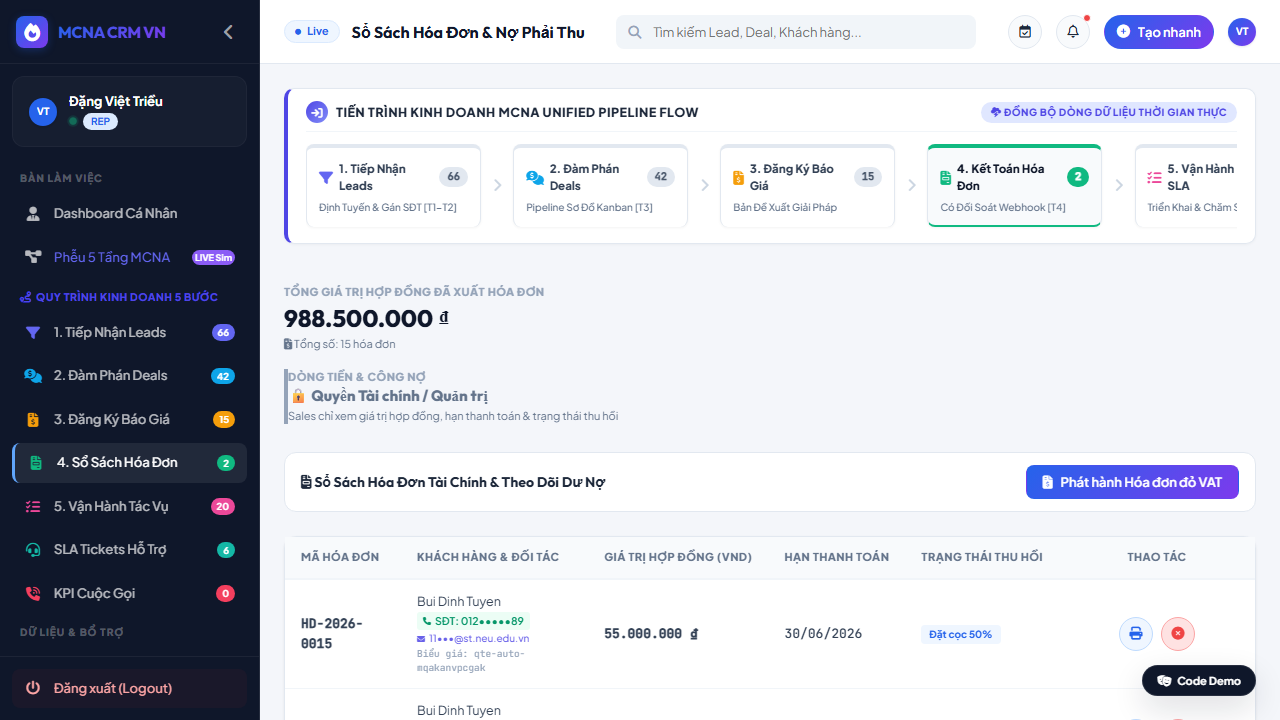
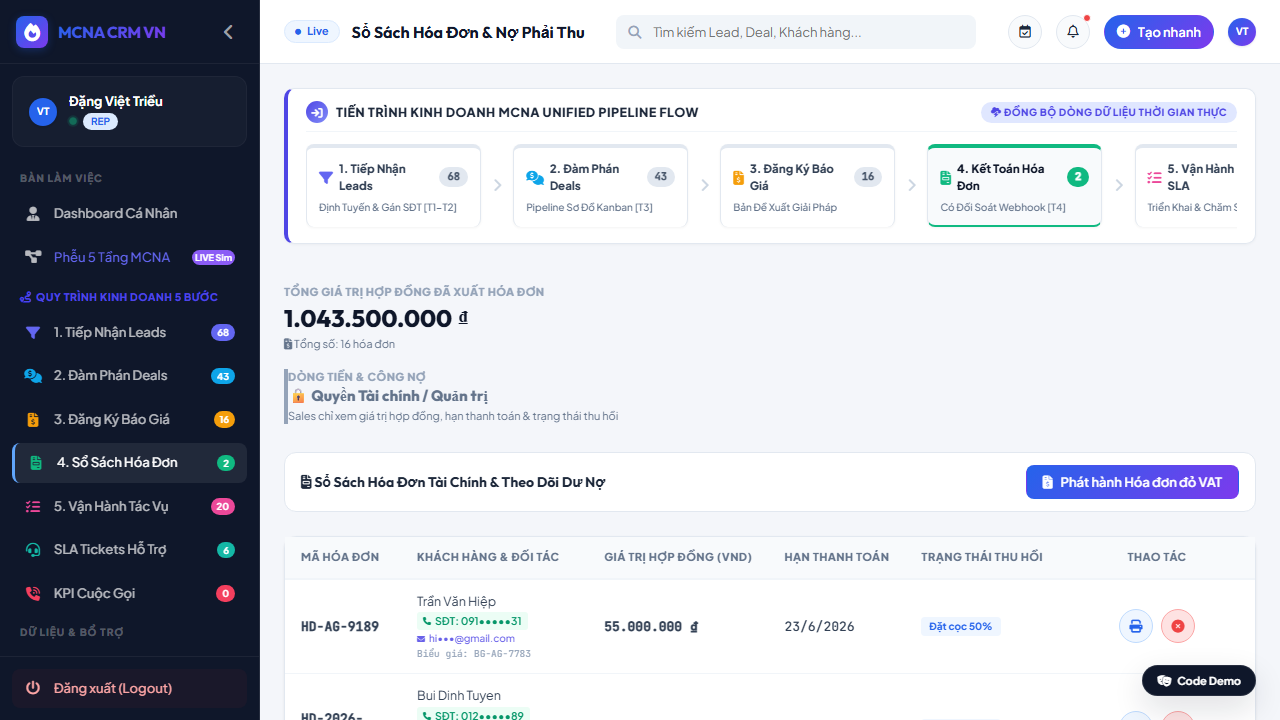
Add "to be updated" lead workflow: marketer aggregates, sales manager distributes
- New leads can be created without a rep; marketers default to unassigned.
  Unassigned leads get status to_be_updated and skip the assignment email.
- Leads table shows a "To be updated" tab, an amber owner badge, and a
  "Chia" (distribute) button visible only to manager/superadmin.
- openAssignLeadModal/confirmAssignLead let the sales manager pick a rep;
  on assign the lead owner + mirrored contact owner are set, status to new,
  and the rep gets a notification + email (address from their profile).

Privacy (phone/email) confirmed already free of random hiding.
Verified on production: e2e-tbu.mjs all pass + e2e-rbac.mjs 11/11 (no regression).

diff --git a/src/crm.js b/src/crm.js
@@ -296,7 +296,7 @@ function renderPageContent(pageId) {
       data = data.filter(l => l.name.toLowerCase().includes(q) || l.company.toLowerCase().includes(q));
     }
     
-    mount.innerHTML = drawLeadsPage(data, ACTIVE_TAB_STATE, FILTER_STATE);
+    mount.innerHTML = drawLeadsPage(data, ACTIVE_TAB_STATE, FILTER_STATE, SESSION?.role);
     setupLeadsEventHandlers();
   } 
   else if (pageId === 'deals' || pageId === 'pipeline') {
@@ -781,10 +781,11 @@ function openNewLeadModalForm() {
       </div>
       <div class="fr2">
         <div class="fg">
-          <label>Nhân viên Sales phụ trách *</label>
+          <label>Phân Sales phụ trách</label>
           <select id="m-lead-owner">
-            ${USERS_DB.filter(u => ['sales', 'manager', 'superadmin'].includes(u.role)).map(u => `
-              <option value="${u.id}" ${u.id === SESSION.id ? 'selected' : ''}>${esc(u.name)} (${esc(u.role.toUpperCase())})</option>
+            <option value="" ${(SESSION.role === 'manager' || SESSION.role === 'superadmin') ? 'selected' : ''}>⏳ Chưa phân — To be updated (Sales Manager chia sau)</option>
+            ${USERS_DB.filter(u => u.role === 'sales' && u.status === 'active').map(u => `
+              <option value="${u.id}" ${u.id === SESSION.id ? 'selected' : ''}>${esc(u.name)} (SALES)</option>
             `).join('')}
           </select>
         </div>
@@ -845,7 +846,9 @@ function openNewLeadModalForm() {
       return;
     }
 
-    const assignedRepId = ownerId || SESSION.id;
+    // Marketer aggregates leads; if no rep is chosen the lead stays unassigned
+    // ("to be updated") for the Sales Manager to filter and distribute later.
+    const isUnassigned = !ownerId;
 
     const newLeadObj = {
       id: uid('led'),
@@ -855,36 +858,41 @@ function openNewLeadModalForm() {
       phone,
       email,
       source: document.getElementById('m-lead-source').value,
-      status: 'new',
+      status: isUnassigned ? 'to_be_updated' : 'new',
       value: val,
-      ownerId: assignedRepId,
+      ownerId: ownerId || '',
+      createdBy: SESSION.id,
       createdAt: new Date().toLocaleDateString('vi-VN'),
-      deadline: '30/05/2026',
+      deadline: '30/06/2026',
       priority: document.getElementById('m-lead-priority').value,
       notes: notesInput || (type === 'b2c' ? 'Khởi tạo thủ công nhanh B2C' : 'Khởi tạo thủ công nhanh B2B')
     };
 
     LEADS_DB.unshift(newLeadObj);
 
-    // Pipeline T1->T2 (BA doc): a new lead must also be recorded in the
-    // B2B/B2C customer database, and the assigned rep gets a real email.
+    // Pipeline T1: a new lead is always recorded in the B2B/B2C customer DB.
     ensureCustomerFromLead(newLeadObj);
-    dispatchAssignmentEmail(newLeadObj);
-
-    // TRIGGER IMMEDIATE NOTIFICATION TO THE DELEGATED SALESPERSON
-    if (assignedRepId) {
-      NOTIFICATIONS_DB.unshift({
-        id: `notif-sales-${Date.now()}`,
-        userId: assignedRepId,
-        unread: true,
-        title: '⚡ [Chỉ Định Thủ Công] BẠN ĐƯỢC GIAO LEAD MỚI!',
-        content: `Marketer/Trưởng bộ phận vừa tạo & gán Lead mới "${name}" (SĐT: ${phone}) trực tiếp cho bạn chăm sóc. Vui lòng tác nghiệp ngay!`,
-        time: 'Vừa xong',
-        user: SESSION.name || 'Hệ thống tự động'
-      });
-    }
 
     closeActiveModal();
+
+    if (isUnassigned) {
+      writeAuditLog(`Marketer tổng hợp Lead "${name}" - để TRẠNG THÁI "To be updated" chờ Sales Manager chia`, 'Leads Collection');
+      toast('📥 Đã tổng hợp Lead mới ở trạng thái "To be updated". Sales Manager sẽ lọc & chia cho Sales.', 'info');
+      if (CUR_PAGE === 'leads') renderPageContent('leads');
+      return;
+    }
+
+    // Assigned directly: notify + email the chosen rep, then run the funnel.
+    dispatchAssignmentEmail(newLeadObj);
+    NOTIFICATIONS_DB.unshift({
+      id: `notif-sales-${Date.now()}`,
+      userId: ownerId,
+      unread: true,
+      title: '⚡ [Chỉ Định Thủ Công] BẠN ĐƯỢC GIAO LEAD MỚI!',
+      content: `Marketer/Trưởng bộ phận vừa tạo & gán Lead mới "${name}" (SĐT: ${phone}) trực tiếp cho bạn chăm sóc. Vui lòng tác nghiệp ngay!`,
+      time: 'Vừa xong',
+      user: SESSION.name || 'Hệ thống tự động'
+    });
 
     if (val > 0) {
       // Trigger the majestic semi-agentic automatic flow!
@@ -5016,6 +5024,71 @@ export async function sendMarketerEmail() {
   if (CUR_PAGE === 'kpi-calls') renderPageContent('kpi-calls');
 }
 
+// ---- Sales Manager: filter & distribute unassigned ("to be updated") leads ----
+export function openAssignLeadModal(leadId) {
+  if (!SESSION || !(SESSION.role === 'manager' || SESSION.role === 'superadmin')) {
+    toast('🔒 Chỉ Sales Manager / Quản trị mới được lọc và chia Lead!', 'error');
+    return;
+  }
+  const lead = LEADS_DB.find(l => l.id === leadId);
+  if (!lead) return;
+
+  const reps = USERS_DB.filter(u => u.role === 'sales' && u.status === 'active');
+  const bodyHtml = `
+    <div class="auth-body">
+      <div class="panel" style="background:#fffbeb; border:1.5px dashed #f59e0b; padding:12px; border-radius:8px; margin-bottom:12px;">
+        <p style="font-size:12px; color:#92400e; margin:0; line-height:1.6;">
+          <i class="fa-solid fa-people-arrows"></i> Lead <strong>${esc(lead.name)}</strong> đang ở trạng thái
+          <strong>"To be updated"</strong>. Chọn Sales để chia. Khi chia xong, hệ thống tự gửi email + thông báo cho Sales đó.
+        </p>
+      </div>
+      <div class="fg" style="margin:0;">
+        <label>Phân cho Sales phụ trách *</label>
+        <select id="assign-lead-rep">
+          ${reps.map(r => `<option value="${r.id}">${esc(r.name)} — ${esc(r.dept || 'Kinh doanh')}</option>`).join('')}
+        </select>
+      </div>
+    </div>
+  `;
+  const footerHtml = `
+    <button class="btn bl" onclick="window.crmApp.closeActiveModal()">Thoát</button>
+    <button class="btn pr" onclick="window.crmApp.confirmAssignLead('${lead.id}')"><i class="fa-solid fa-share-from-square"></i> Chia Lead cho Sales</button>
+  `;
+  openModalElement('CHIA LEAD CHO SALES (Sales Manager)', bodyHtml, footerHtml);
+}
+
+export function confirmAssignLead(leadId) {
+  const lead = LEADS_DB.find(l => l.id === leadId);
+  if (!lead) return;
+  const repId = document.getElementById('assign-lead-rep')?.value;
+  const rep = USERS_DB.find(u => u.id === repId);
+  if (!rep) { toast('Hãy chọn một Sales để chia!', 'error'); return; }
+
+  lead.ownerId = repId;
+  if (lead.status === 'to_be_updated') lead.status = 'new';
+
+  // Keep the mirrored customer record's owner in sync with the lead
+  const phoneKey = cleanPhone(lead.phone);
+  const contact = CONTACTS_DB.find(c => cleanPhone(c.phone) === phoneKey ||
+    (lead.email && c.email && c.email.toLowerCase() === lead.email.toLowerCase()));
+  if (contact) contact.ownerId = repId;
+
+  dispatchAssignmentEmail(lead);
+  NOTIFICATIONS_DB.unshift({
+    id: `notif-sales-${Date.now()}`,
+    userId: repId,
+    unread: true,
+    title: '⚡ [Sales Manager Chia Lead] BẠN ĐƯỢC GIAO LEAD MỚI!',
+    content: `Sales Manager ${SESSION.name} vừa chia Lead "${lead.name}" (SĐT: ${lead.phone}) cho bạn. Vui lòng tiếp cận ngay!`,
+    time: 'Vừa xong',
+    user: SESSION.name
+  });
+  writeAuditLog(`Sales Manager chia Lead "${lead.name}" cho ${rep.name}`, 'Leads Collection');
+  toast(`✅ Đã chia Lead "${lead.name}" cho ${rep.name} & gửi email thông báo!`, 'success');
+  closeActiveModal();
+  if (CUR_PAGE === 'leads') renderPageContent('leads');
+}
+
 // ---- 4) Per-rep parameterized settings (NO hardcoded emails) ----
 export function editRepNotifyEmail(repId) {
   const rep = USERS_DB.find(u => u.id === repId);
@@ -5221,7 +5294,7 @@ export function launchCallFromPicker() {
 Object.assign(window.crmApp || (window.crmApp = {}), {
   openCallSession, beginDial, onReachChange, cancelCallSession, submitCallOutcome,
   editRepNotifyEmail, editRepKpiTarget, launchCallFromPicker,
-  revealSecuredField, sendMarketerEmail
+  revealSecuredField, sendMarketerEmail, openAssignLeadModal, confirmAssignLead
 });
 
 async function init() {

diff --git a/src/crm-templates.js b/src/crm-templates.js
@@ -1035,9 +1035,12 @@ export function renderSupportDashboard() {
    4. CORE SALES LEADS VIEW PAGE MODULES
    ========================================================================== */
 
-export function drawLeadsPage(leadsList, activeTab, filterState) {
+export function drawLeadsPage(leadsList, activeTab, filterState, viewerRole) {
   // First, apply activeTab filter
   const stateFilteredList = activeTab === 'all' ? leadsList : leadsList.filter(l => l.status === activeTab);
+  // Only the Sales Manager / admin can filter & distribute unassigned leads
+  const canDistribute = viewerRole === 'manager' || viewerRole === 'superadmin';
+  const tbuCount = leadsList.filter(l => l.status === 'to_be_updated' || !l.ownerId).length;
 
   return `
     <div class="page-container animate-fadeIn">
@@ -1079,11 +1082,12 @@ export function drawLeadsPage(leadsList, activeTab, filterState) {
 
       <!-- Tabbing filters -->
       <div class="tabbar">
-        <div class="tab ${activeTab==='all'?'active':''}" data-tab="all">Tất cả trạng thái (${stateFilteredList.length})</div>
-        <div class="tab ${activeTab==='new'?'active':''}" data-tab="new">Mới (${stateFilteredList.filter(l=>l.status==='new').length})</div>
-        <div class="tab ${activeTab==='contacting'?'active':''}" data-tab="contacting">Đang xử lý (${stateFilteredList.filter(l=>l.status==='contacting').length})</div>
-        <div class="tab ${activeTab==='qualified'?'active':''}" data-tab="qualified">Đã Qualify (${stateFilteredList.filter(l=>l.status==='qualified').length})</div>
-        <div class="tab ${activeTab==='lost'?'active':''}" data-tab="lost">Mất Lead (${stateFilteredList.filter(l=>l.status==='lost').length})</div>
+        <div class="tab ${activeTab==='all'?'active':''}" data-tab="all">Tất cả trạng thái (${leadsList.length})</div>
+        <div class="tab ${activeTab==='to_be_updated'?'active':''}" data-tab="to_be_updated" style="${tbuCount>0?'color:#b45309;font-weight:800;':''}">⏳ To be updated (${tbuCount})</div>
+        <div class="tab ${activeTab==='new'?'active':''}" data-tab="new">Mới (${leadsList.filter(l=>l.status==='new').length})</div>
+        <div class="tab ${activeTab==='contacting'?'active':''}" data-tab="contacting">Đang xử lý (${leadsList.filter(l=>l.status==='contacting').length})</div>
+        <div class="tab ${activeTab==='qualified'?'active':''}" data-tab="qualified">Đã Qualify (${leadsList.filter(l=>l.status==='qualified').length})</div>
+        <div class="tab ${activeTab==='lost'?'active':''}" data-tab="lost">Mất Lead (${leadsList.filter(l=>l.status==='lost').length})</div>
       </div>
 
       <!-- Leads dynamic table -->
@@ -1189,13 +1193,16 @@ export function drawLeadsPage(leadsList, activeTab, filterState) {
                     <td><span class="${priorityBadge}">${led.priority?.toUpperCase()}</span></td>
                     <td style="text-align:right;" class="tmono cell-bold text-primary-600">${fmtVND(led.value)}</td>
                     <td>
+                      ${owner ? `
                       <div style="display:flex; align-items:center; gap:6px;">
-                        <div class="av xs" style="background:${owner?.color || 'var(--grad)'}">${owner?.initials || 'S'}</div>
-                        <span style="font-size:11.5px; font-weight:600;">${owner ? esc(owner.name) : 'Chưa giao'}</span>
-                      </div>
+                        <div class="av xs" style="background:${owner.color || 'var(--grad)'}">${owner.initials || 'S'}</div>
+                        <span style="font-size:11.5px; font-weight:600;">${esc(owner.name)}</span>
+                      </div>` : `
+                      <span class="chip am font-bold" style="font-size:10px; padding:3px 8px;"><i class="fa-solid fa-hourglass-half"></i> To be updated</span>`}
                     </td>
                     <td style="text-align:center;">
                       <div style="display:flex; justify-content:center; gap:4px;">
+                        ${!led.ownerId && canDistribute ? `<button class="btn am xs" onclick="window.crmApp.openAssignLeadModal('${led.id}')" title="Lọc & chia Lead cho Sales" style="padding:4px 6px; font-size:10.5px; font-weight:700;"><i class="fa-solid fa-share-from-square"></i> Chia</button>` : ''}
                         <button class="btn gr xs" onclick="window.crmApp.convertLeadToDeal('${led.id}')" title="Chuyển đổi thành Deal thương thảo" style="padding:4px 6px; font-size:10.5px;"><i class="fa-solid fa-shuffle"></i> Convert</button>
                         <button class="btn bl icon-only xs" onclick="window.crmApp.openLeadDetail('${led.id}')" title="Chi tiết & Tiếp cận bảo mật" style="padding:4px 6px;"><i class="fa-solid fa-eye"></i></button>
                         <button class="btn rd icon-only xs" onclick="window.crmApp.deleteLead('${led.id}')" title="Xóa bỏ" style="padding:4px 6px;"><i class="fa-solid fa-trash-can"></i></button>
